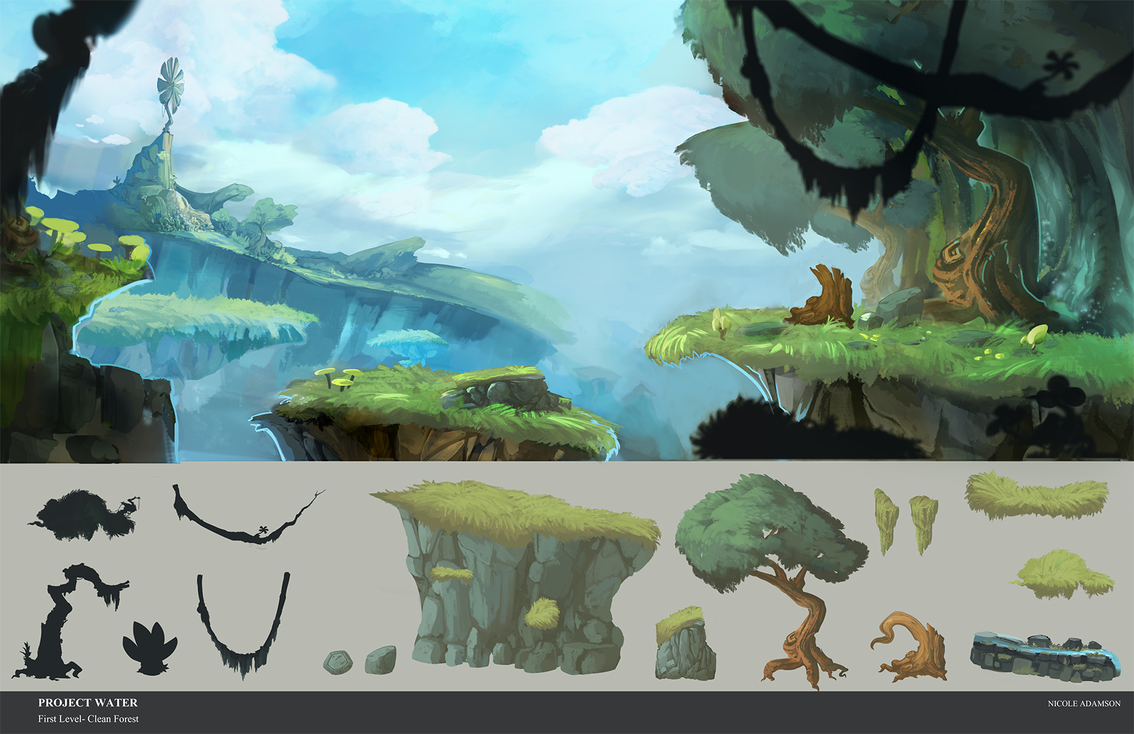
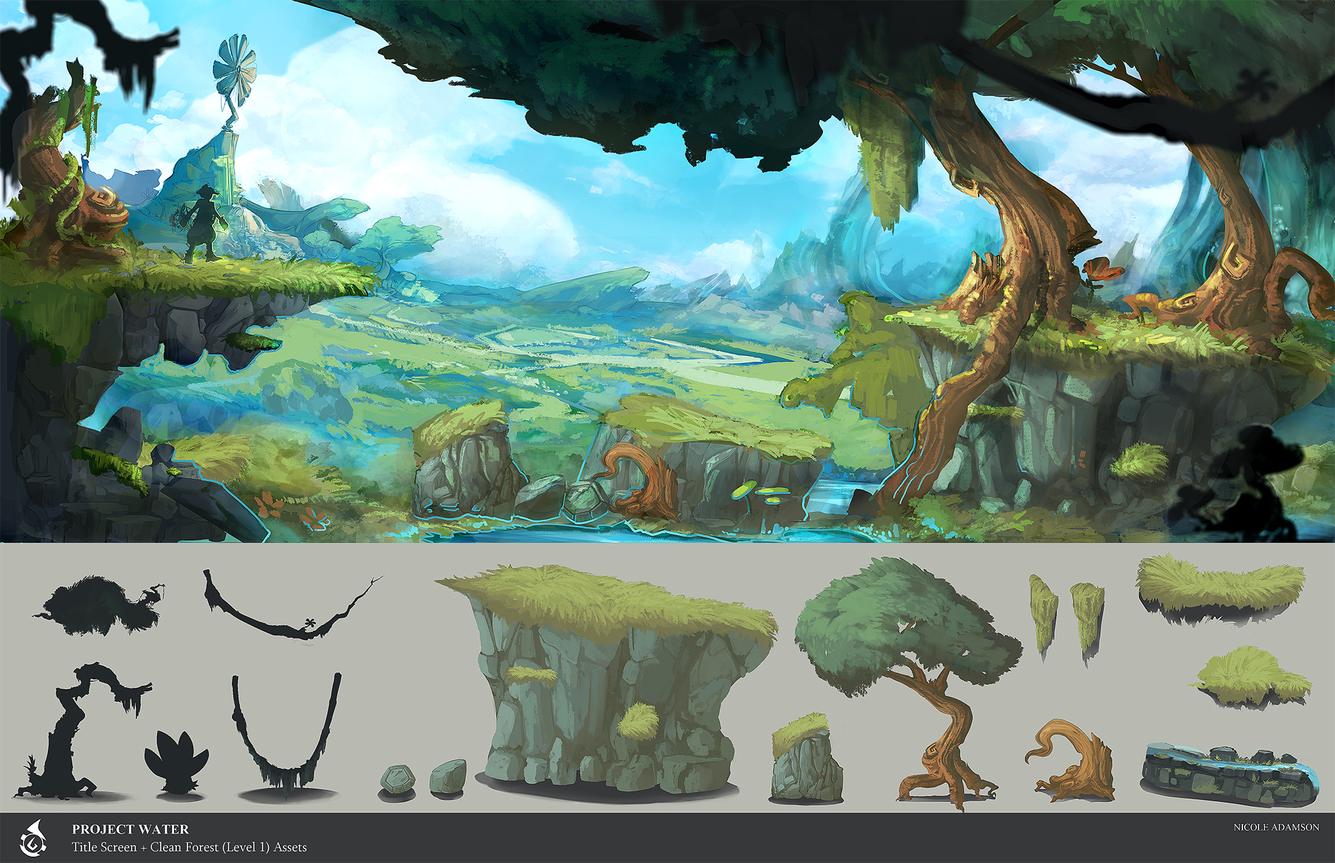
Upload new images and change old ones

diff --git a/web/content/work.php b/web/content/work.php
@@ -75,7 +75,7 @@
 							</a>
 							<a href="portfolio/project-water.php">
 								<div class="tile scale-anm professional all">
-									<img src="http://res.cloudinary.com/dzf64w6kx/image/upload/v1498152963/n-adamson/professional/project-water.jpg" alt=""/>
+									<img src="http://res.cloudinary.com/dzf64w6kx/image/upload/v1500652541/n-adamson/professional/project-water.jpg" alt=""/>
 									<div class="overlay">
 										<span class="text">PROJECT WATER</span>
 									</div>
@@ -166,6 +166,14 @@
 									<img src="http://res.cloudinary.com/dzf64w6kx/image/upload/v1498153520/n-adamson/personal/bot-scene-compressed_mini.jpg" alt="" />
 									<div class="overlay">
 										<span class="text">CONFRONTATION</span>
+									</div>
+								</div>
+							</a>
+							<a href="http://res.cloudinary.com/dzf64w6kx/image/upload/v1500652852/n-adamson/personal/arrivial.jpg" data-lightbox="roadtrip">
+								<div class="tile scale-anm personal all">
+									<img src="http://res.cloudinary.com/dzf64w6kx/image/upload/v1500652852/n-adamson/personal/arrivial.jpg" alt="" />
+									<div class="overlay">
+										<span class="text">ARRIVAL</span>
 									</div>
 								</div>
 							</a>

diff --git a/web/content/portfolio/project-water.php b/web/content/portfolio/project-water.php
@@ -50,9 +50,9 @@
 				</div><hr>
 				<div class="row">
 					<div class="col-md-8">
-						<a href="http://res.cloudinary.com/dzf64w6kx/image/upload/v1498152963/n-adamson/professional/project-water.jpg" data-lightbox="roadtrip">
+						<a href="http://res.cloudinary.com/dzf64w6kx/image/upload/v1500652541/n-adamson/professional/project-water.jpg" data-lightbox="roadtrip">
 							<div class="tile scale-anm">
-								<img class="nested-page-image" src="http://res.cloudinary.com/dzf64w6kx/image/upload/v1498152963/n-adamson/professional/project-water.jpg" alt="" />
+								<img class="nested-page-image" src="http://res.cloudinary.com/dzf64w6kx/image/upload/v1500652541/n-adamson/professional/project-water.jpg" alt="" />
 							</div>
 						</a>
 						<a href="http://res.cloudinary.com/dzf64w6kx/image/upload/v1498152964/n-adamson/professional/project-water-2.jpg" data-lightbox="roadtrip">

diff --git a/web/content/portfolio/figure-drawings.php b/web/content/portfolio/figure-drawings.php
@@ -55,9 +55,9 @@
 								<img class="nested-page-image" src="http://res.cloudinary.com/dzf64w6kx/image/upload/v1500529702/n-adamson/personal/sketches-body.jpg" alt="" />
 							</div>
 						</a>
-						<a href="http://res.cloudinary.com/dzf64w6kx/image/upload/v1500529703/n-adamson/personal/sketches-characters.jpg" data-lightbox="roadtrip">
+						<a href="http://res.cloudinary.com/dzf64w6kx/image/upload/v1500652723/n-adamson/personal/sketches-final.jpg" data-lightbox="roadtrip">
 							<div class="tile scale-anm sketches all">
-								<img src="http://res.cloudinary.com/dzf64w6kx/image/upload/v1500529703/n-adamson/personal/sketches-characters.jpg" alt="" />
+								<img src="http://res.cloudinary.com/dzf64w6kx/image/upload/v1500652723/n-adamson/personal/sketches-final.jpg" alt="" />
 							</div>
 						</a>
 					</div>

diff --git a/web/content/index.php b/web/content/index.php
@@ -57,7 +57,7 @@
 									<img class="d-block img-fluid main-image center-block" src="http://res.cloudinary.com/dzf64w6kx/image/upload/v1500508393/n-adamson/professional/project-water-final.jpg">
 								</div>
 								<div class="item">
-									<img class="d-block img-fluid main-image center-block" src="http://res.cloudinary.com/dzf64w6kx/image/upload/v1498152963/n-adamson/professional/wonka-final_mini.jpg">
+									<img class="d-block img-fluid main-image center-block" src="http://res.cloudinary.com/dzf64w6kx/image/upload/v1498153520/n-adamson/personal/fault-city.jpg">
 								</div>
 								<div class="item">
 									<img class="d-block img-fluid main-image center-block" src="http://res.cloudinary.com/dzf64w6kx/image/upload/v1498152964/n-adamson/professional/vesperia-closeup-pg1.jpg">
